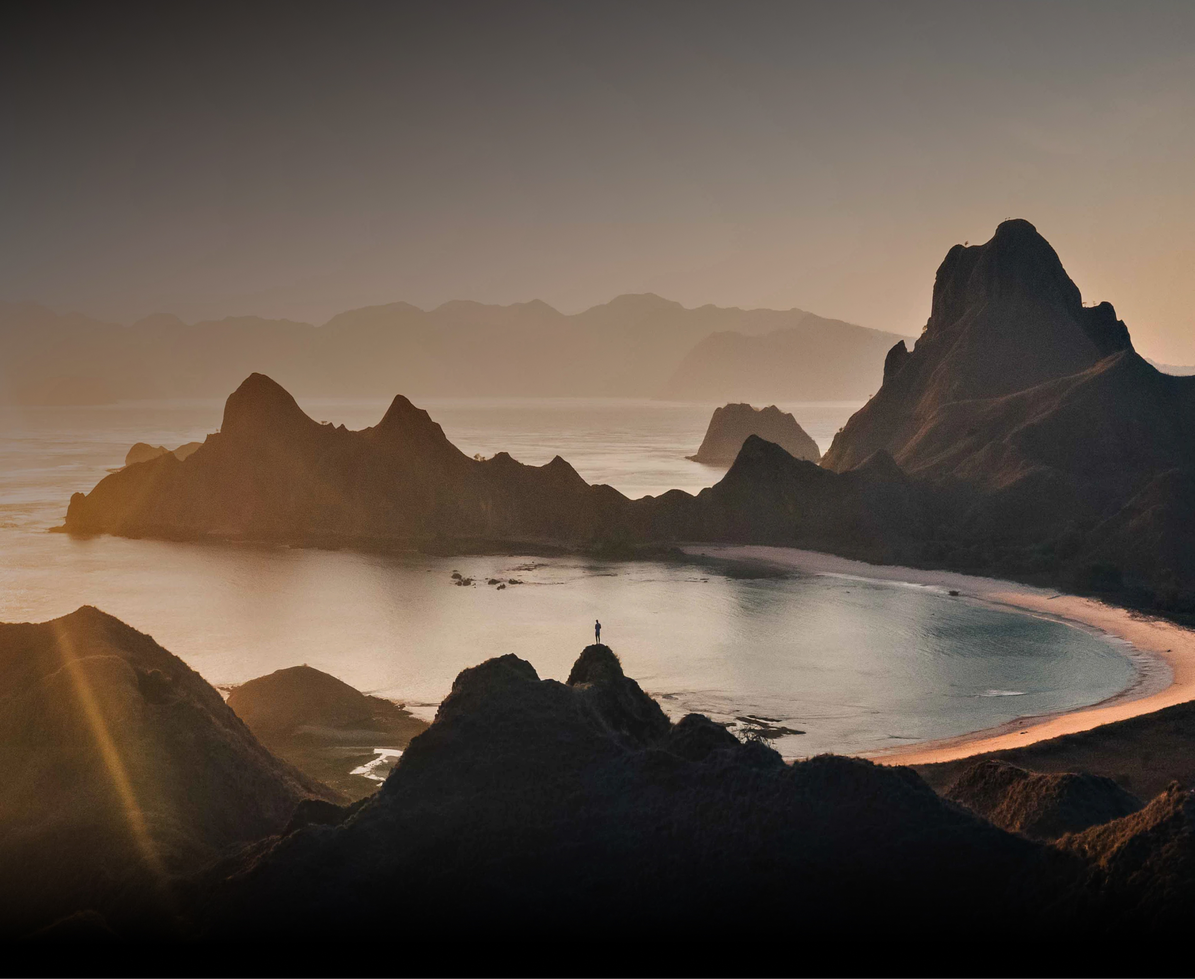
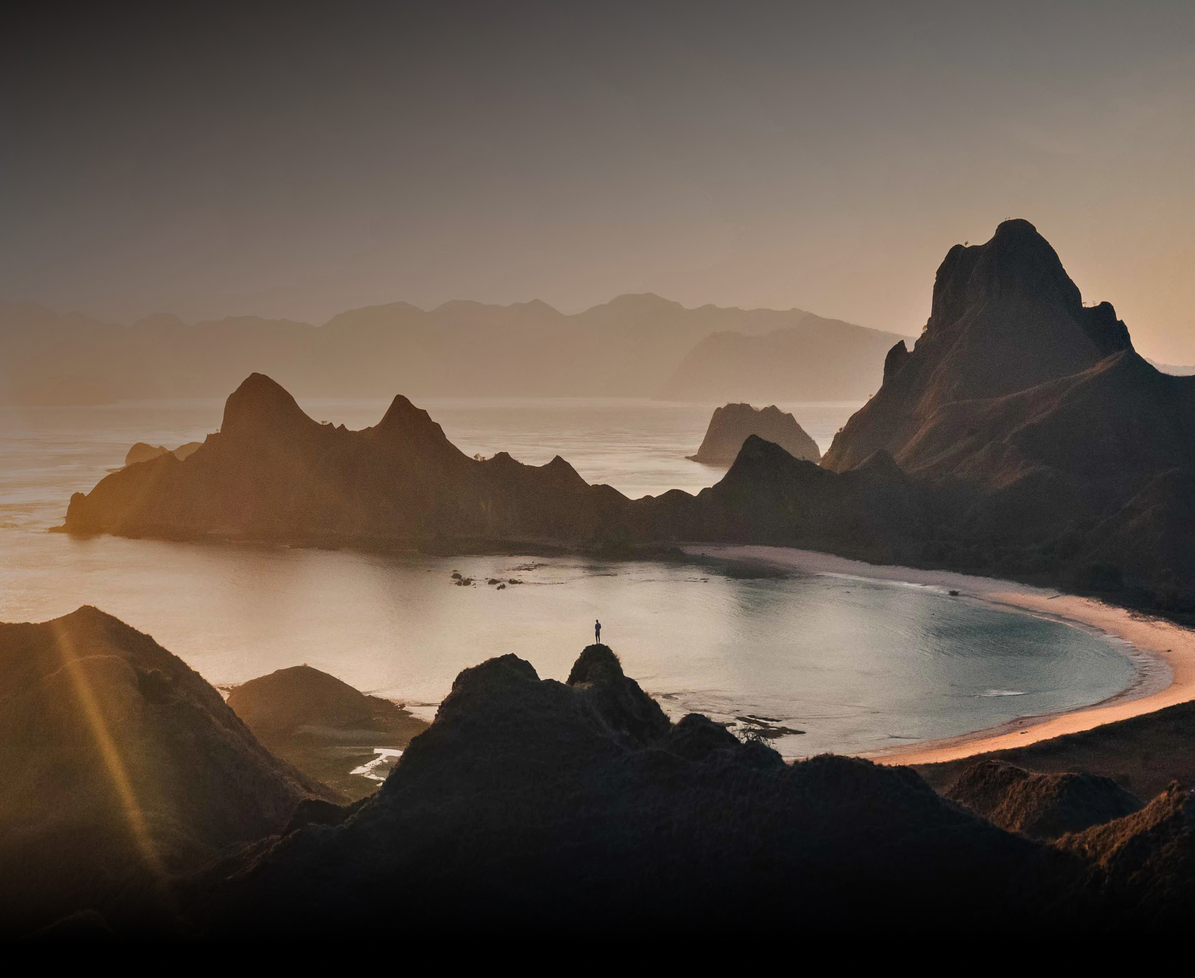
add responsive layout

diff --git a/index.html b/index.html
@@ -33,7 +33,7 @@
 					<li><a href="#">About us</a></li>
 					<li><a href="#">Culture</a></li>
 				</ul>
-				<a href="№" class="search">
+				<a href="#" class="search">
 					<svg width="20" height="20" viewBox="0 0 20 20" fill="none" xmlns="http://www.w3.org/2000/svg">
 					<path d="M15.564 16.3392L10.8015 11.5759C8.68288 13.0821 5.76352 12.7136 4.08555 10.7283C2.40758 8.74294 2.53079 5.80301 4.36899 3.96502C6.2067 2.12622 9.14693 2.00248 11.1326 3.68036C13.1184 5.35825 13.487 8.27789 11.9807 10.3967L16.7432 15.16L15.5648 16.3384L15.564 16.3392ZM7.90399 4.16667C6.32374 4.16632 4.9604 5.27558 4.63938 6.82288C4.31837 8.37018 5.12791 9.93024 6.57788 10.5585C8.02786 11.1869 9.71974 10.7107 10.6292 9.41839C11.5386 8.12608 11.4157 6.37278 10.3348 5.22002L10.839 5.72002L10.2707 5.15335L10.2607 5.14335C9.63714 4.516 8.78848 4.16429 7.90399 4.16667Z" fill="white"/>
 					</svg>Search
@@ -51,7 +51,7 @@
 					<a href="#"><i class="fab fa-facebook-f"></i></a>
 				</div>
 				<div class="main-section__info">
-					<h4 class="orange-title">Explore the Nature Beauty</h4>
+					<h4 class="orange-title responsive-orange-title">Explore the Nature Beauty</h4>
 					<h1><b>Discover</b><br>
 						Wonderful Indonesia</h1>
 					<a href="#next_section">Scroll down</a>
@@ -61,7 +61,9 @@
 		<section class="tenggara" id="next_section">
 			<div class="container">
 				<div class="tenggara__wrapper">
-					<img width="598" height="720" src="img/image-1.jpg" alt="photo of mountain whith woman">
+					<div class="tenggara__img">
+						<img width="598" height="720" src="img/image-1.jpg" alt="photo of mountain whith woman">
+					</div>
 					<div class="tenggara__info">
 						<h4 class="orange-title">East nusa Tenggara</h4>
 						<h2>Have you enjoyed your holiday?</h2>
@@ -71,7 +73,7 @@
 				</div>
 			</div>
 		</section>
-		<section class="bromo">
+		<!-- <section class="bromo">
 			<div class="container">
 				<div class="bromo-slider">
 					<div class="bromo__wrapper" style="background-image: url(/img/image-2.jpg);">
@@ -100,8 +102,8 @@
 					</div>
 				</div>	
 			</div>
-		</section>
-		<section class="indonesia">
+		</section> -->
+		<!-- <section class="indonesia">
 			<div class="container">
 				<div class="indonesia__wrapper">
 					<div class="indonesia__info">
@@ -113,8 +115,8 @@
 					<img width="578" height="720" src="img/image-3.jpg" alt="photo of women">
 				</div>
 			</div>
-		</section>
-		<section class="subscribe">
+		</section> -->
+		<!-- <section class="subscribe">
 			<div class="container">
 				<svg width="173" height="65" viewBox="0 0 96 25" fill="none" xmlns="http://www.w3.org/2000/svg">
 					<g clip-path="url(#clip0_5_85)">
@@ -132,8 +134,8 @@
 				</div>
 			</div>
 		</section>
-	</main>
-	<footer class="page-footer">
+	</main> -->
+	<!-- <footer class="page-footer">
 		<div class="container">
 			<div class="footer-wrapper">
 				<div class="footer__form">
@@ -178,7 +180,7 @@
 				</div>
 			</div>
 		</div>
-	</footer>
+	</footer> -->
 	<script src="https://code.jquery.com/jquery-3.6.0.min.js"></script>
 	<script type="text/javascript" src="slick/slick.min.js"></script>
 	<script type="text/javascript" src="js/main.js"></script>

diff --git a/css/media.css b/css/media.css
@@ -1,7 +1,120 @@
 /*Full screenn - 1024px - обычные стили*/ 
-
+@media (max-width: 1240px){
+    body{
+        font-size: 16px;
+        line-height: 23px;
+    }
+    .large-container{
+        max-width: 1000px;
+        margin: 0 auto;
+        padding: 0 15px;
+    } 
+    h2{
+        font-size: 36px;
+        line-height: 24px;
+    }
+    .search{
+        font-size: 16px;
+        line-height: 23px;
+    }
+    .main-section__info h1{
+        font-size: 68px;
+        line-height: 64px;
+    
+        margin-bottom: 100px;
+    }
+    .orange-title{
+        font-size: 16px;
+        line-height: 24px;
+        letter-spacing: 6px;
+        padding-left: 75px;
+    }
+    .orange-title::before {
+        width: 52px;
+    }
+    .center-orange-title{
+        font-size: 16px;
+        line-height: 24px;
+    }
+}
 /*1024px - 768px - @media (max-width: 1024px) {*/
+@media (max-width: 1024px) {
+    .main-section__info h1{
+        font-size: 42px;
+        line-height: 42px;
+        text-align: center;
+    
+        margin-bottom: 100px;
+    }
+    .main-section__info .responsive-orange-title{
+        color: #FFC178;
+        font-size: 16px;
+        line-height: 20px;
+        letter-spacing: 4px;
+        text-align: center;
+        display: inline-block;
 
+        position: relative;
+        margin-bottom: 30px;	
+        padding: 0;
+    }
+    .main-section__info .responsive-orange-title::before{
+        content: "";
+        position: absolute;
+        right: 102%;
+        top: 50%;
+        transform: translateY(-50%);
+        border-bottom: 2px solid #FFC178;
+        display: block;
+        width: 55px;
+        left: auto;
+    }
+    .main-section__info .responsive-orange-title::after{
+        content: "";
+        position: absolute;
+        left: 101%;
+        top: 50%;
+        transform: translateY(-50%);
+        border-bottom: 2px solid #FFC178;
+        display: block;
+        width: 55px;
+    }
+}
 /*768px - 480px - @media (max-width: 768px) */
-
+@media (max-width: 768px){
+    .main-section {
+        height: 80vh;
+        padding-top: 250px;
+    }
+    .main-section__info .responsive-orange-title{
+        font-size: 14px;
+    }
+}
 /*480px - 320px - @media (max-width: 480px)*/
+@media (max-width: 600px){
+    .header__navigation-list{
+        display: none;
+    }
+    .main-section {
+        height: 70vh;
+        padding-top: 250px;
+    }
+    .main-section__info .responsive-orange-title::before{
+        display: none;
+    }
+    .main-section__info .responsive-orange-title::after{
+        display: none;
+    }
+    .main-section__info .responsive-orange-title{
+        letter-spacing: 3px;
+        margin-bottom: 20px;	
+    }
+}
+@media (max-width: 480px) {
+    .main-section__info h1{
+        font-size: 32px;
+        line-height: 32px;
+    
+        margin-bottom: 100px;
+    }
+}

diff --git a/css/style.css b/css/style.css
@@ -1,9 +1,13 @@
+html{
+	scroll-behavior: smooth;
+}
 body{
 	position: relative;
 	font-family: 'Open Sans', sans-serif;
 	font-size: 18px;
 	line-height: 32px;
 	font-weight: 600;
+	
 
 	background-color: #000;
 	color: #fff;
@@ -19,6 +23,7 @@ a{
 img{
 	display: block;
 	max-width: 100%;
+	height: auto;
 }
 li{
 	list-style: none;	
@@ -34,9 +39,10 @@ h2{
 	margin: 0 auto;
 	padding: 0 20px;
 }
-.container{
-	max-width: 1461px;
+.container{ 	
+	max-width: 1431px;
 	margin: 0 auto;
+	padding: 0 15px;
 }
 
 .orange-title{
@@ -97,7 +103,6 @@ h2{
 .read_more{
 	color: #FFC178;
 	position: relative;
-
 }
 .read_more::after{
 	content: url(../img/icons/arrow-right.png);
@@ -141,7 +146,6 @@ h2{
 	top: 40px;
 	left: 0;
 	width: 100%;
-	
 }
 .header__navigation{
 	display: flex;
@@ -151,7 +155,6 @@ h2{
 .header__navigation-list{
 	display: flex;
 	column-gap: 50px;
-
 }
 .search{
 	font-size: 17px;
@@ -166,6 +169,7 @@ h2{
 	background-image: url(../img/Background.jpg);
 	background-size: cover;
 	background-repeat: no-repeat;
+	background-position: bottom;
 
 	height: 100vh;
 	padding-top: 270px;
@@ -176,7 +180,7 @@ h2{
 .socials{
 	position: absolute;
 	top: 12%;
-	left: 0;
+	/* left: 0; */
 
 	display: flex;
     column-gap: 10px;
@@ -222,7 +226,6 @@ h2{
 	width: 16px;
 	height: 24px;
 }
-
 /* ------------ Tenggara Section ------------- */
 .tenggara__wrapper{
 	display: flex;
@@ -233,8 +236,6 @@ h2{
 }
 .tenggara__info{
 	flex-basis: 632px;
-	flex-grow: 0;
-	flex-shrink: 1;
 }
 
 .tenggara__info h2{
@@ -410,14 +411,18 @@ h2{
 .footer__info{
 	display: flex;
 	justify-content: space-between;
+	align-items: center;
 }
 
 .footer__policy{
 	font-size: 15px;
 	line-height: 20px;
 	display: flex;
-
+	align-items: center;
+    column-gap: 20px;
 }
 .footer__socials{
 	display: flex;
+	align-items: center;
+    column-gap: 20px;
 }
